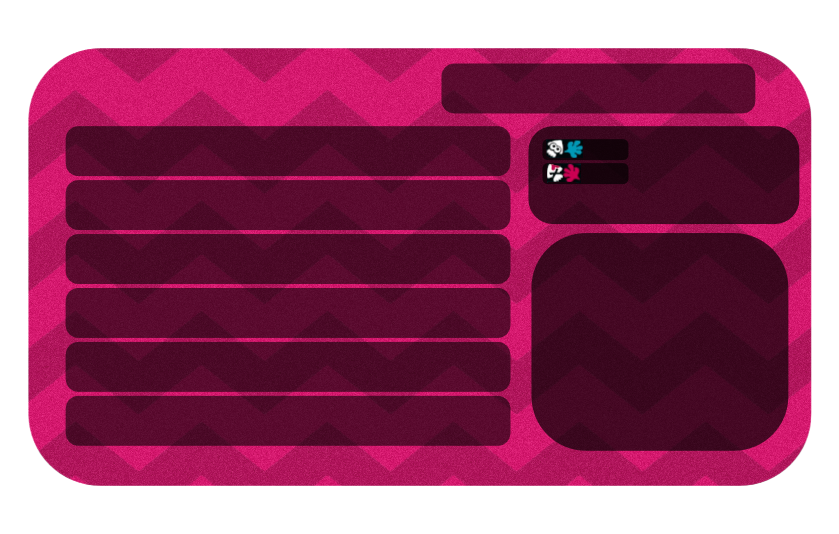
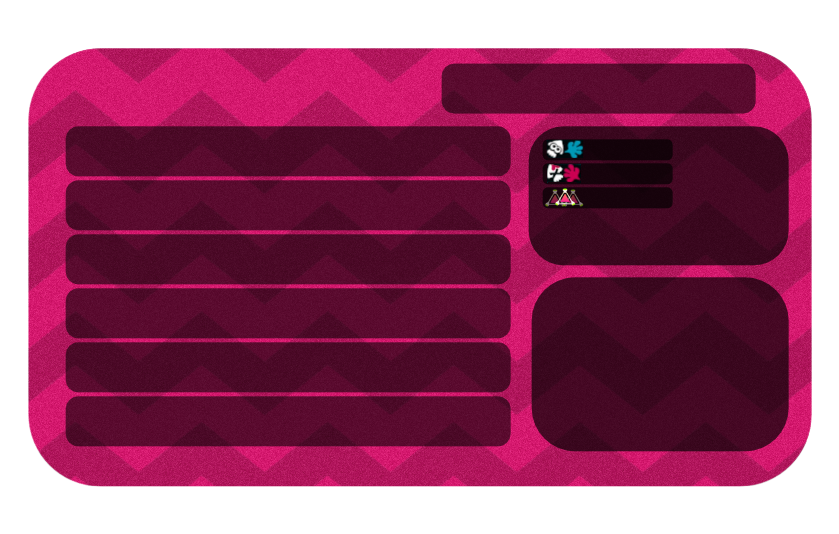
splatmania now has mine counter in eval screen

diff --git a/README.md b/README.md
@@ -268,6 +268,7 @@ Original theme by Jose Varela, no longer maintained. Optimized for NotITG 4.9.1 
 -Added modernized noteskin, judgment font, hold judgment, and Music Rate customization.\
 -Fixed the error where the Long/Marathon pop-up in song selection screen keeps getting bigger if you switch through songs rapidly, also changed its location.\
 -A "Success!" rank is added to the evaluation screen for when you lifebar pass the song. The song banner and player mods are also added there.\
+-Added mine counter in the evaluation screen similar to SplatMania 0.5.0.\
 -Fully overhauled the UI of the lifebar, difficulty counter, etc. during non-mods gameplay.\
 -Resized the default judgment textures and changed the judgment tween accordingly so that it scales well with most other judgments out there.\
 -Made the music wheel highlight in song selection screen clearer, and made it not disappear when entering sort mode.\
